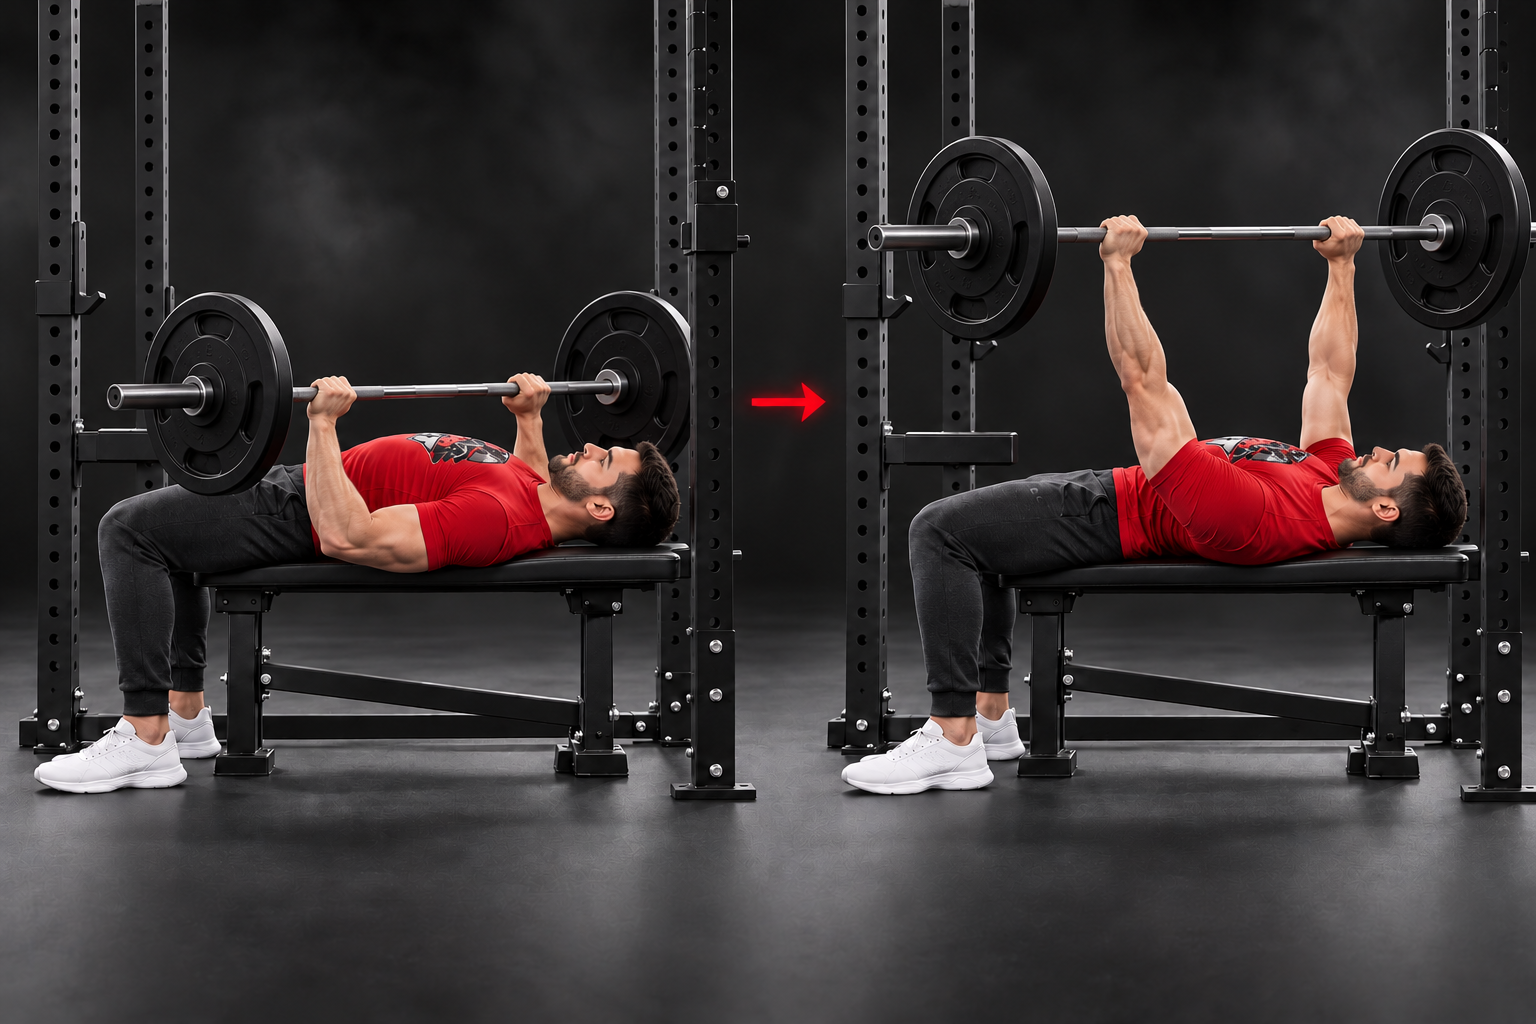
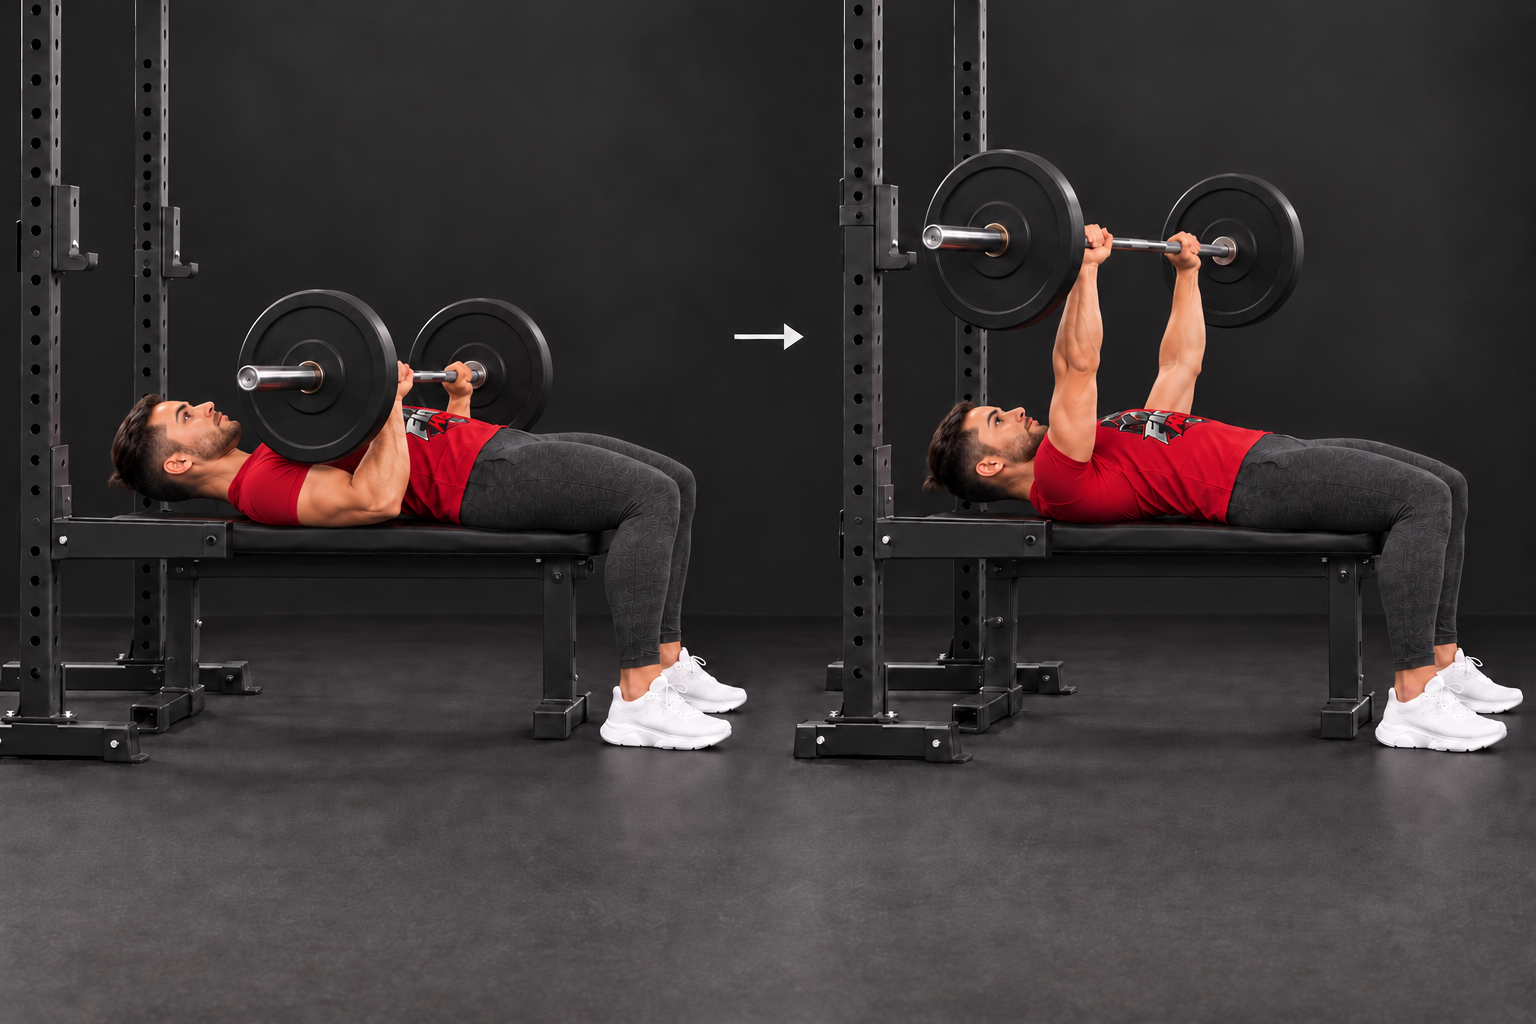
Match male bench press and leg curl to approved female layouts

diff --git a/image-requests/LATEST-HANDOFF.md b/image-requests/LATEST-HANDOFF.md
@@ -1,0 +1,14 @@
+# Image handoff — 3 October 2026
+
+Latest REDO.md was pulled at f416154. Both explicitly requested male replacements are now regenerated with the approved corresponding women's PNG as the exact composition reference, plus arm-circles.png for male identity. Built-in image generation was used.
+
+- `drop-here/barbell-bench.png`: copy approved female camera/layout; transverse bar, shoulder-origin arms, lowered then pressed.
+- `drop-here/leg-curl.png`: copy approved female machine/poses; horizontal extended legs above roller, then curled legs in front of rear roller.
+
+Both candidates visually checked at full size for limb count, proportions, shoulder origins, equipment and pose continuity. Awaiting user/reviewer acceptance, not marked approved by generation alone.
+
+The four files called 'not made yet' in REDO.md already exist at exact paths: `drop-here/clinch-knees-f.png`, `drop-here/elbows-f.png`, `drop-here/high-kick-f.png`, `drop-here/front-kick-f.png`. They were reviewed at full size in the preceding batch and do not need duplicate generation. They still need app integration/reviewer confirmation.
+
+Remaining initial generation: **0** from the latest list. Remaining requested replacement generation: **0**, with **2** replacements now awaiting review. App conversion/integration left for Claude per original user option. No app changes or tests in this asset-only handoff.
+
+Older ANATOMY-AUDIT concerns are retained as history; latest REDO.md explicitly restricts regeneration to listed assets and says the app collection was rechecked. Do not indiscriminately remake previously approved images.
